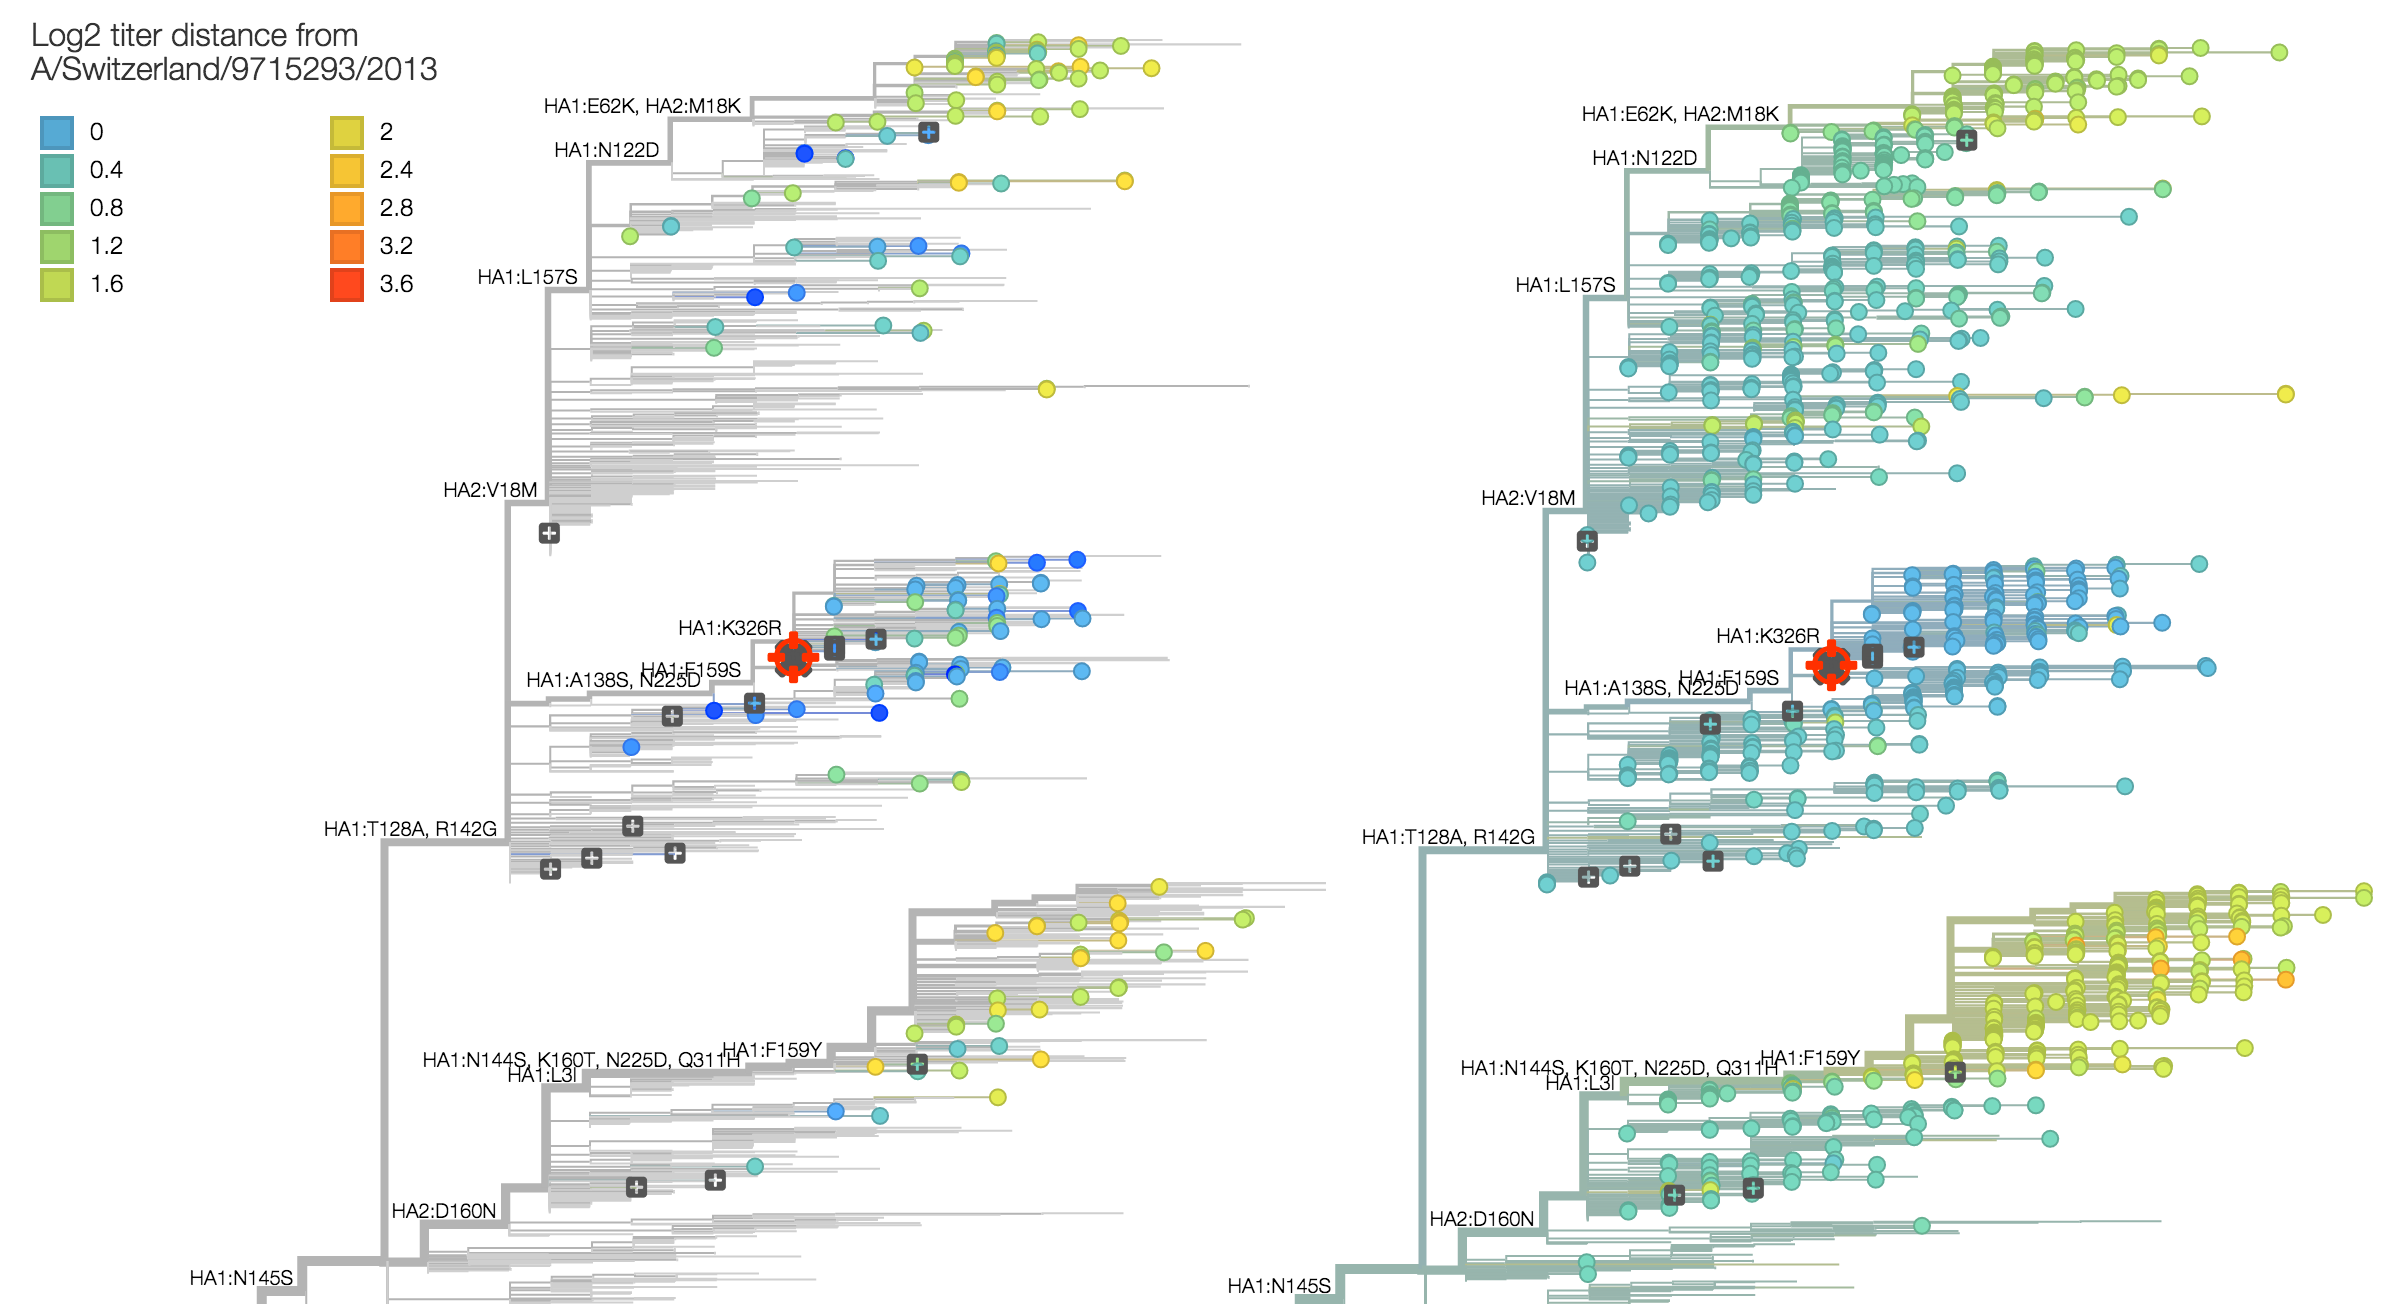
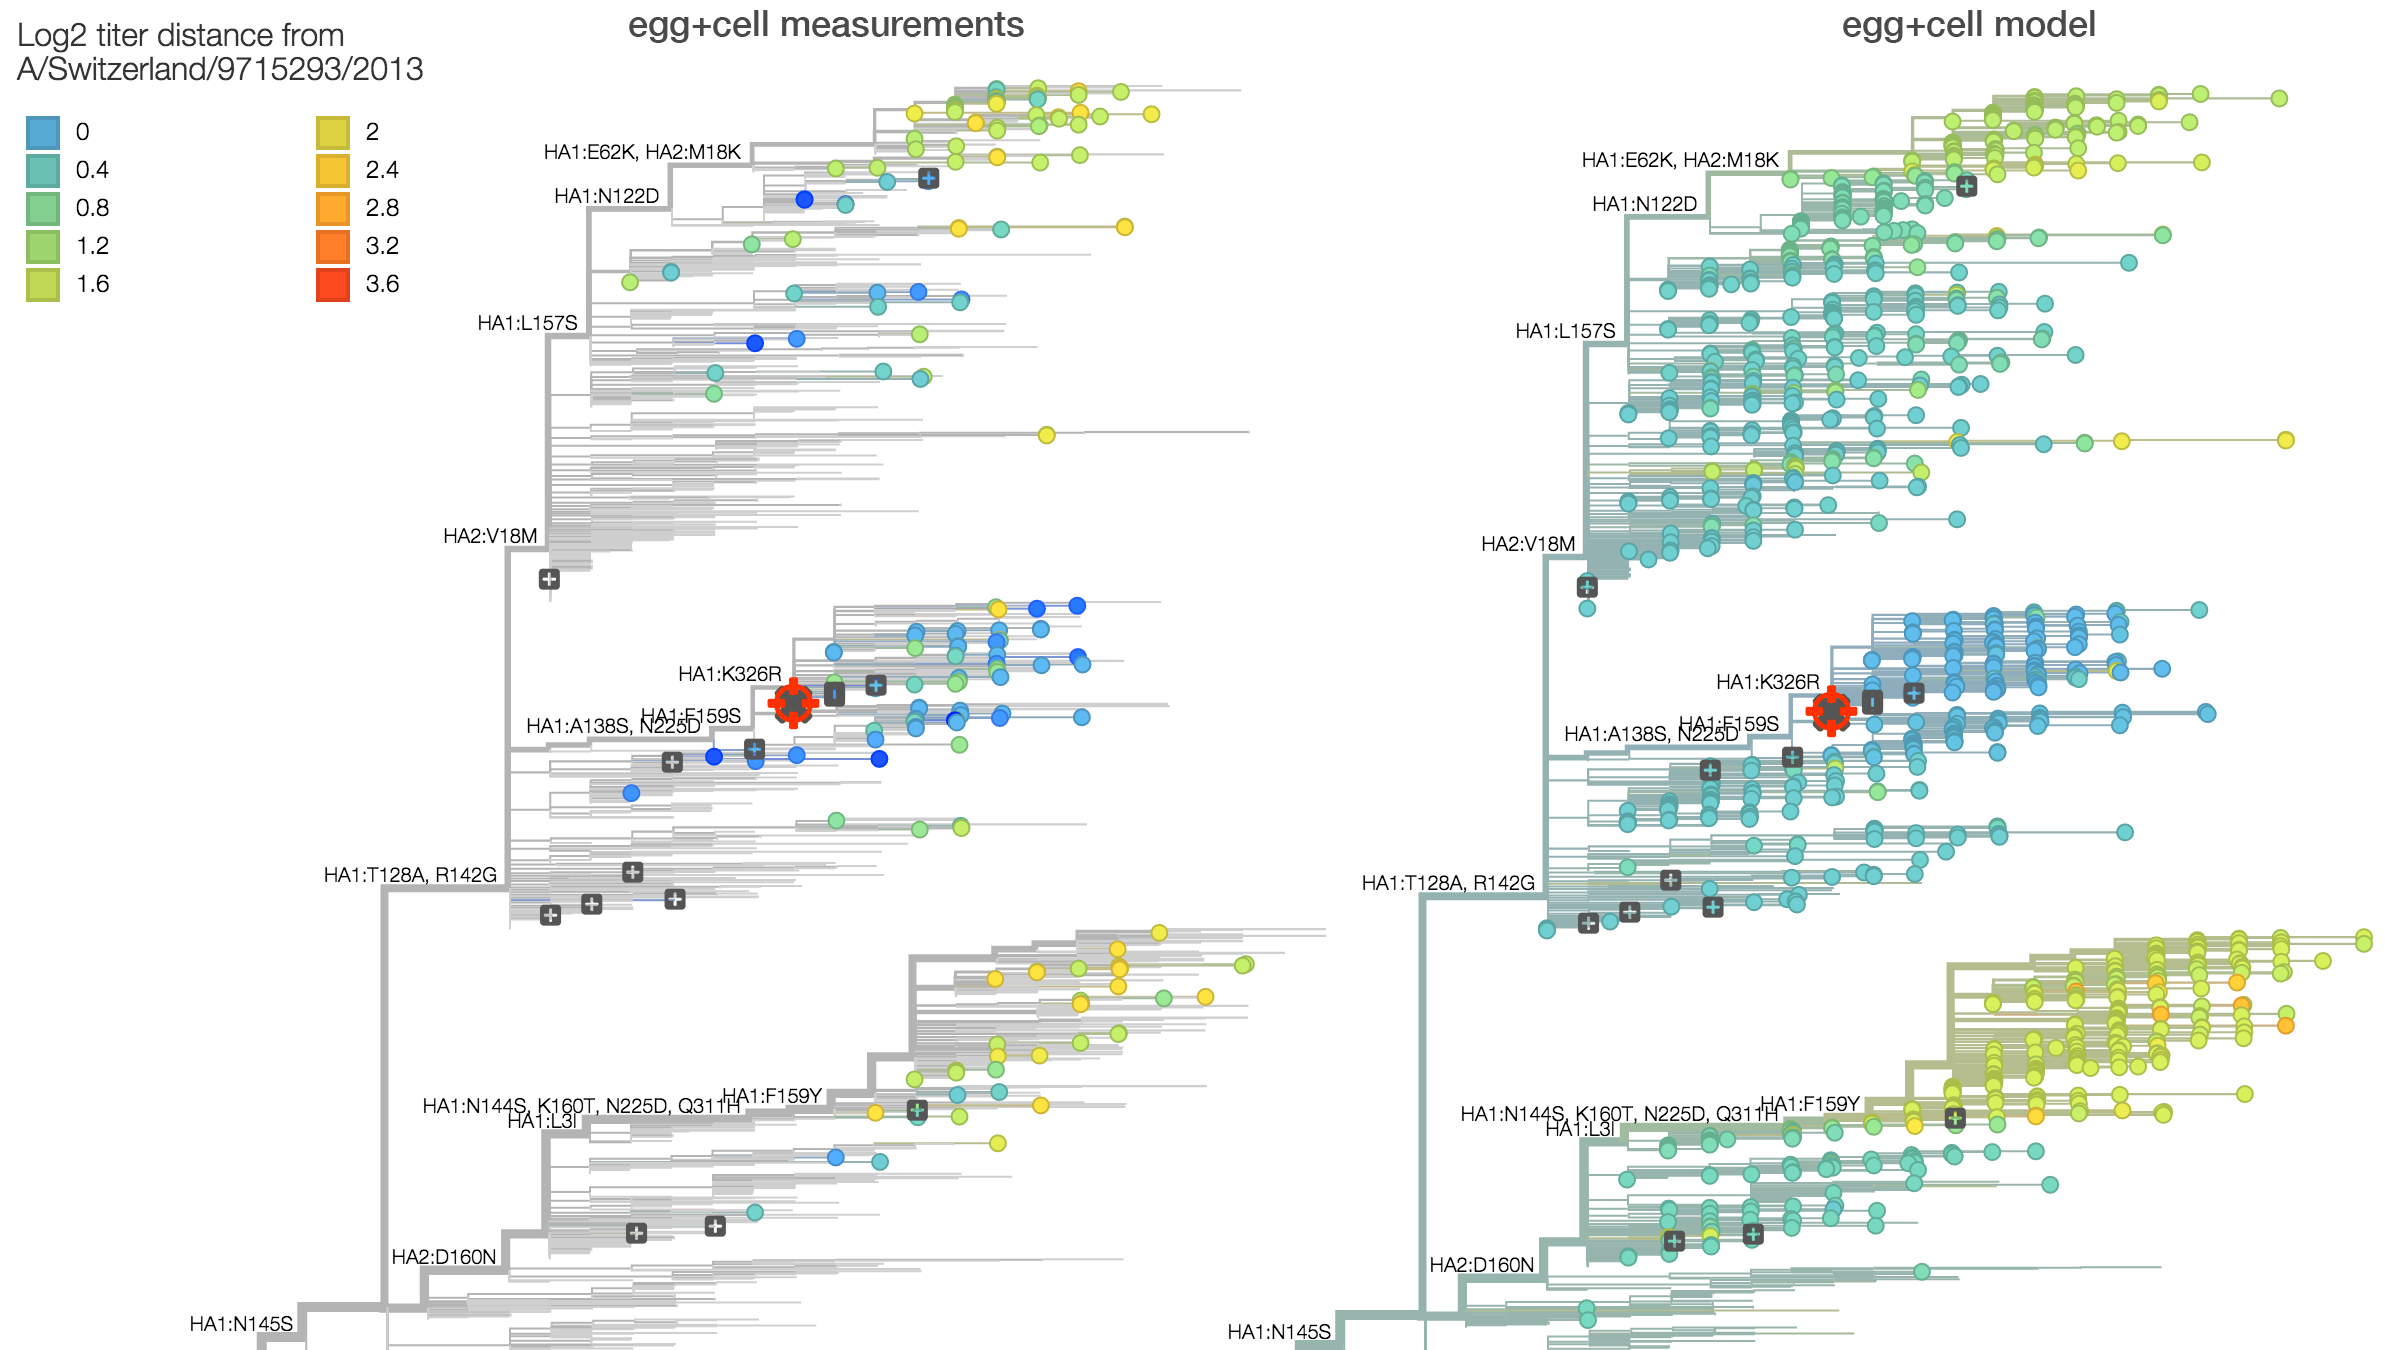
Include more detail on Yam and H3N2 titers.

diff --git a/auspice/reports/_posts/2015-09-16-sep-2015.html b/auspice/reports/_posts/2015-09-16-sep-2015.html
@@ -12,7 +12,7 @@ title: Seasonal influenza circulation patterns and future projections
 	</div>
 	<div class="col-md-9">
 	
-		<b>We expect clade 3c2.a viruses to further predominate the H3N2 virus population. We do not observe the appearance of additional fast growing clades indicative of the emergence of new antigenic variants.</b>
+		<b>We expect clade 3c2.a viruses to further predominate the H3N2 population. We do not observe the appearance of additional fast growing clades indicative of the emergence of new antigenic variants.</b>
 
 		<div class="spacer"></div>
 		
@@ -34,11 +34,13 @@ title: Seasonal influenza circulation patterns and future projections
 	
 		<div class="spacer"></div>
 		
-		Summarizing data from <a href="http://www.crick.ac.uk/research/worldwide-influenza-centre/annual-and-interim-reports/">recent reports by the WHO CC London</a>, we observe approximately a 2.8-fold drop in titer between serum raised against vaccine strain A/Switzerland/9715293/2013 and 3c2.a viruses. This serum is F25/14. This corresponds to a 1.5 antigenic unit distance between clades. This can be seen on the left in the raw titer data (viruses are colored based on titer drop relative to A/Switzerland/9715293/2013 serum) and also on the right in the expected titers based on a statistical model of titer drop. Note also, that the statistical model finds that 3c2.a and 3c3.a both appear homogeneous in terms of titer measurements within the clade, further supporting the absence of new adaptive variants.
+		Summarizing data from <a href="http://www.crick.ac.uk/research/worldwide-influenza-centre/annual-and-interim-reports/">recent reports by the WHO CC London</a>, we observe approximately a 2.8-fold drop in titer between serum raised against vaccine strain A/Switzerland/9715293/2013 and 3c2.a viruses. This corresponds to a 1.5 antigenic unit distance between clades. This can be seen on the left in the raw titer data (viruses are colored based on titer drop relative to A/Switzerland/9715293/2013 serum) and also on the right in the expected titers based on a statistical model of titer drop. The statistical model finds that 3c2.a and 3c3.a both appear homogeneous in terms of titer measurements within the clade, further supporting the absence of new adaptive variants. Note however, that this analysis is averaging across the serum NIBF13/14 raised against cell-culture virus and the serum F25/14 raised against egg-culture virus.
 		
-		<!-- clarify cell culture vs egg culture Switzerland serum -->
-
 		{% embed_image /reports/figures/sep-2015/H3N2_HI_titers.png 12 %}
+		
+		Here we compare titer measurements between cell-culture based serum NIBF13/14 on the left and the egg-culture based serum F25/14 on the right. Averaged across measurements, titer drop between cell-culture serum and egg-culture serum is similar with an average antigenic distance of 1.5 for cell-culture measurements and an average antigenic distance of 1.4 for egg-culture measurements.
+	
+		{% embed_image /reports/figures/sep-2015/H3N2_HI_titers_ce.png 12 %}
 		
 		Thus, 3c2.a and 3c3.a viruses, although not antigenically identical appear quite similar. Observed rapid displacement of 3c3.a viruses by 3c2.a viruses makes sense in this context, i.e. we expect strong immunological competition between clades.
 
@@ -121,8 +123,18 @@ title: Seasonal influenza circulation patterns and future projections
 		<div class="spacer"></div>	
 	</div>
 	<div class="col-md-9">
+	
+		B/Yamagata viruses isolated during 2015 were predominately clade 3, with 97% of viruses belonging to clade 3 and just 3% belonging to clade 2. Within clade 3 viruses, the substitution HA1:172Q rose rapidly in frequency during 2014.
 
-		Clade 3 has fully taken over. Within this clade, different amino acids at position 251 are circulating, with 251V slowly taking over across the globe. 
+		{% embed_image /reports/figures/sep-2015/Yam_HA1-172.png 10 %}
+
+		{% embed_image /reports/figures/sep-2015/Yam_HA1-172_frequencies.png 12 %}
+
+		More recently, the substitution HA1:251V has emerged with the HA1:172Q clade of viruses. The HA1:251V mutation has 
+		
+		{% embed_image /reports/figures/sep-2015/Yam_HA1-251.png 10 %}
+
+		{% embed_image /reports/figures/sep-2015/Yam_HA1-251_frequencies.png 12 %}		
 
 	</div>
 </div>

diff --git a/auspice/_plugins/embed-image.rb b/auspice/_plugins/embed-image.rb
@@ -22,7 +22,7 @@ module Jekyll
 			border = (12-width)/2
 			
 			html = ""
-			html += "<div class=\"spacer\"></div>"
+			html += "<div class=\"bigspacer\"></div>"
 			html += "<div class=\"row\">"
 			if border > 0 then
 				html += "<div class=\"col-lg-#{border}\"></div>"
@@ -36,7 +36,7 @@ module Jekyll
 				html += "<div class=\"col-lg-#{border}\"></div>"
 			end
 			html += "</div>"
-			html += "<div class=\"spacer\"></div>"			
+			html += "<div class=\"bigspacer\"></div>"			
 			html 
 			
 		end
